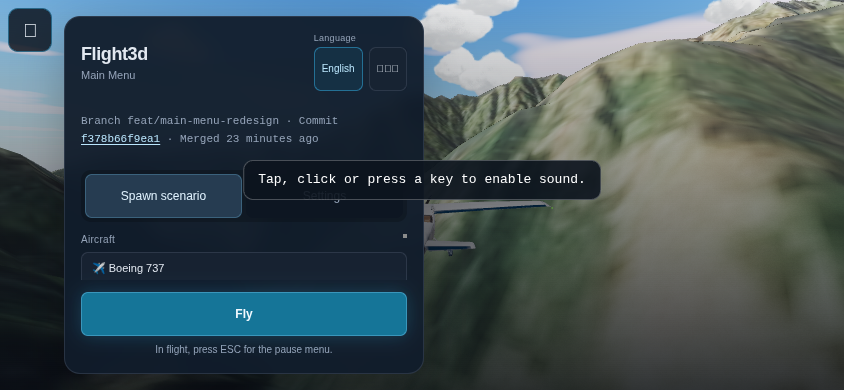
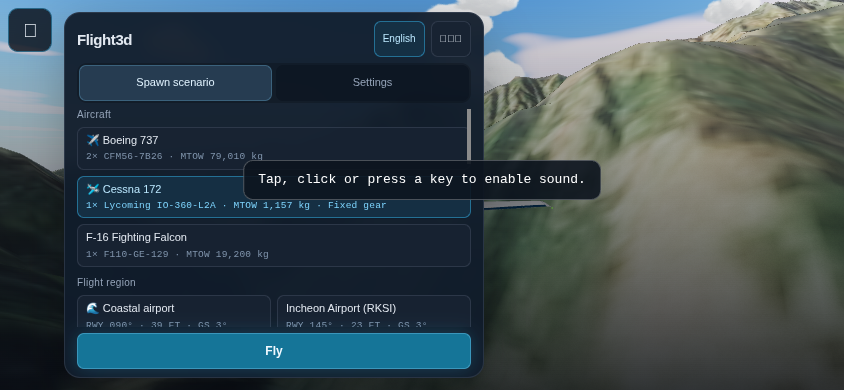
fix(ui): expand mobile landscape scroll area and update preview captures

diff --git a/src/styles/lobby-and-overlays.css b/src/styles/lobby-and-overlays.css
@@ -256,9 +256,25 @@ body[data-flow="lobby"] .menu-toggle {
   .compact-ui #lobby-screen { align-items: center; }
   .compact-ui .lobby-card {
     margin: 0 0 0 calc(var(--edge-left) + 56px);
-    max-height: calc(100dvh - var(--edge-top) - var(--edge-bottom) - 16px);
-    height: calc(100dvh - var(--edge-top) - var(--edge-bottom) - 16px);
+    max-height: calc(100dvh - var(--edge-top) - var(--edge-bottom) - 8px);
+    height: calc(100dvh - var(--edge-top) - var(--edge-bottom) - 8px);
+    padding: 8px 12px;
+    gap: 6px;
+    width: min(420px, calc(100vw - var(--edge-left) - var(--edge-right) - 72px));
   }
+  /* Short landscape: give the scrolling panel the height. The build line,
+     subtitle, language caption and ESC hint return in taller layouts. */
+  .compact-ui .lobby-card .build-info,
+  .compact-ui .lobby-card .lobby-hint,
+  .compact-ui .lobby-title > span,
+  .compact-ui .lobby-language > .lobby-label { display: none; }
+  .compact-ui .lobby-card .lobby-tabs { padding: 2px; }
+  .compact-ui .lobby-card .lobby-tab { min-height: 32px; font-size: 11px; }
+  .compact-ui .lobby-card .btn-fly { min-height: 34px; padding: 6px 12px; }
+  .compact-ui .lobby-card .lobby-header { gap: 6px; }
+  .compact-ui .lobby-card .lobby-title { font-size: 15px; }
+  .compact-ui .lobby-card .lobby-tab-panel { gap: 10px; }
+  .compact-ui .lobby-card .btn { min-height: 36px; padding: 5px 8px; }
 }
 /* Keep the comparison controls below the HUD without covering the panel face. */
 .shadow-demo {
